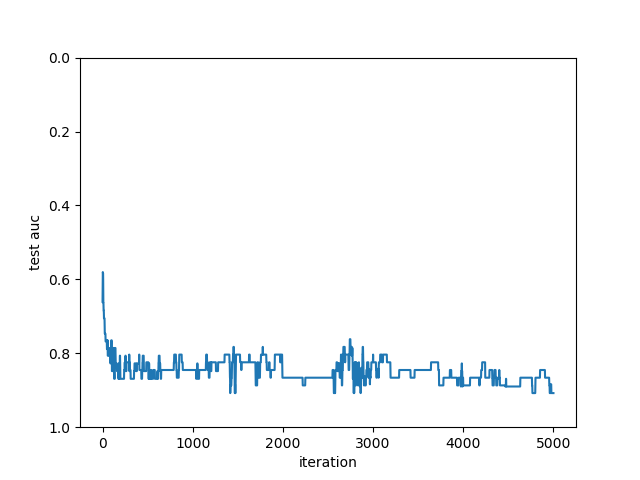
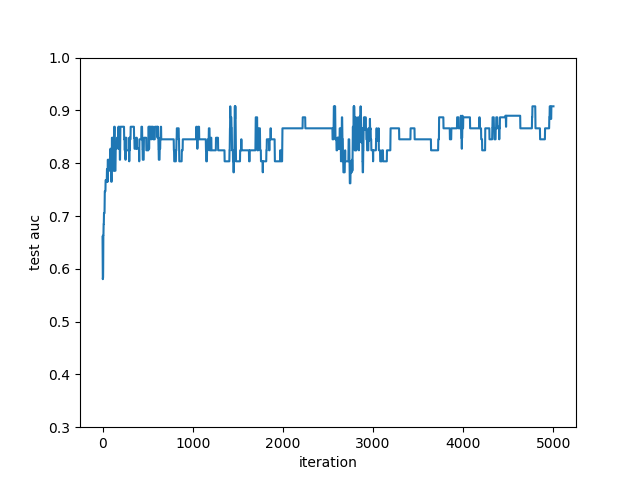
fix some bag

diff --git a/code/plot_solutions.py b/code/plot_solutions.py
@@ -26,9 +26,9 @@ if __name__ == "__main__":
             continue
         plt.plot(range(ite),data[i])
         if data_name[i] == "train loss" or data_name[i] == "test loss":
-            plt.ylim([80,0])
+            plt.ylim([0,5])
         else:
-            plt.ylim([1,0])
+            plt.ylim([0.3,1])
         plt.xlabel("iteration")
         plt.ylabel(data_name[i])
         plt.savefig("../data/out/{0}.png".format(data_name[i]))        
